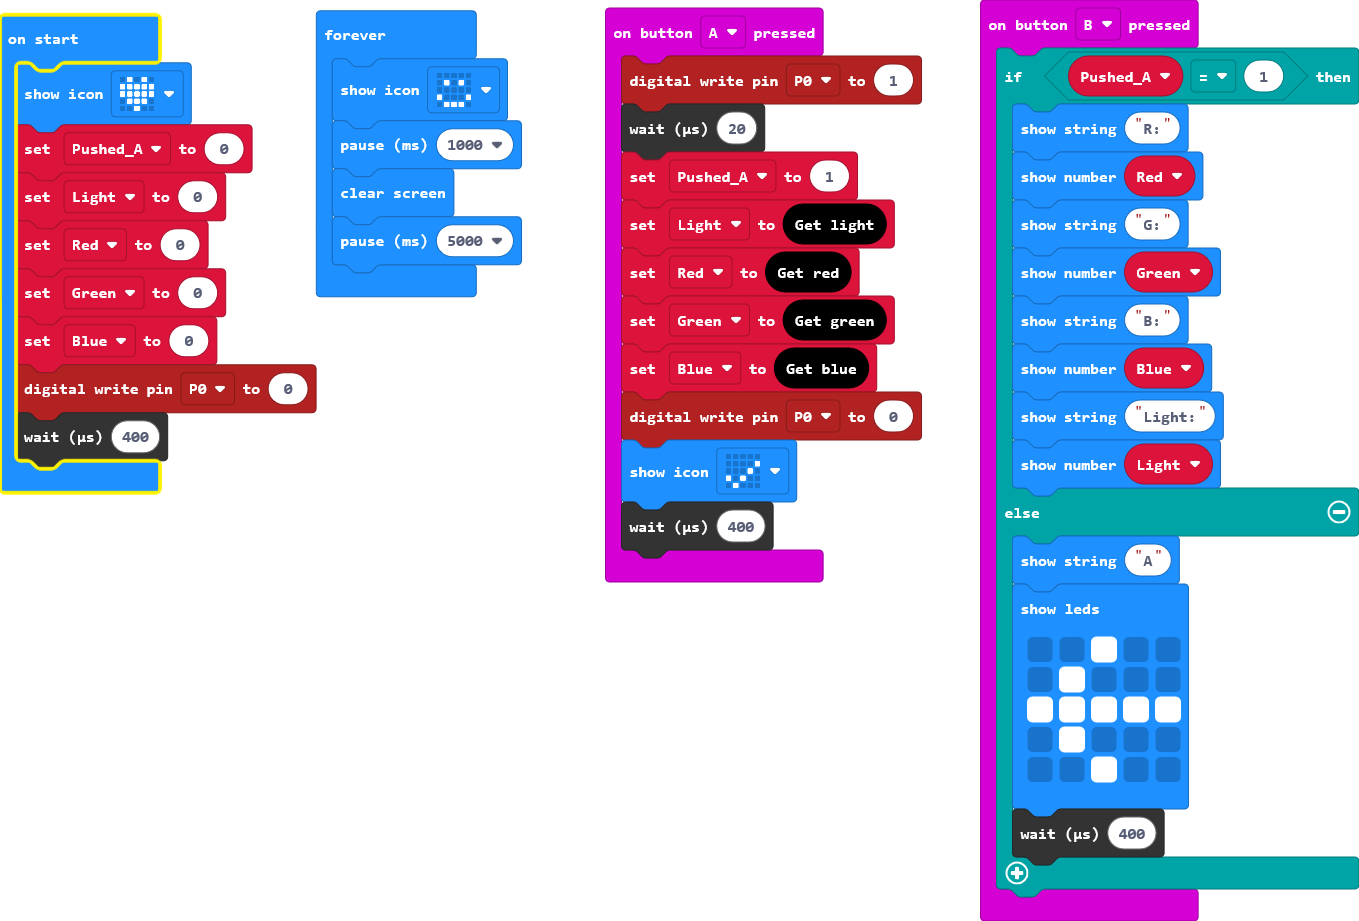
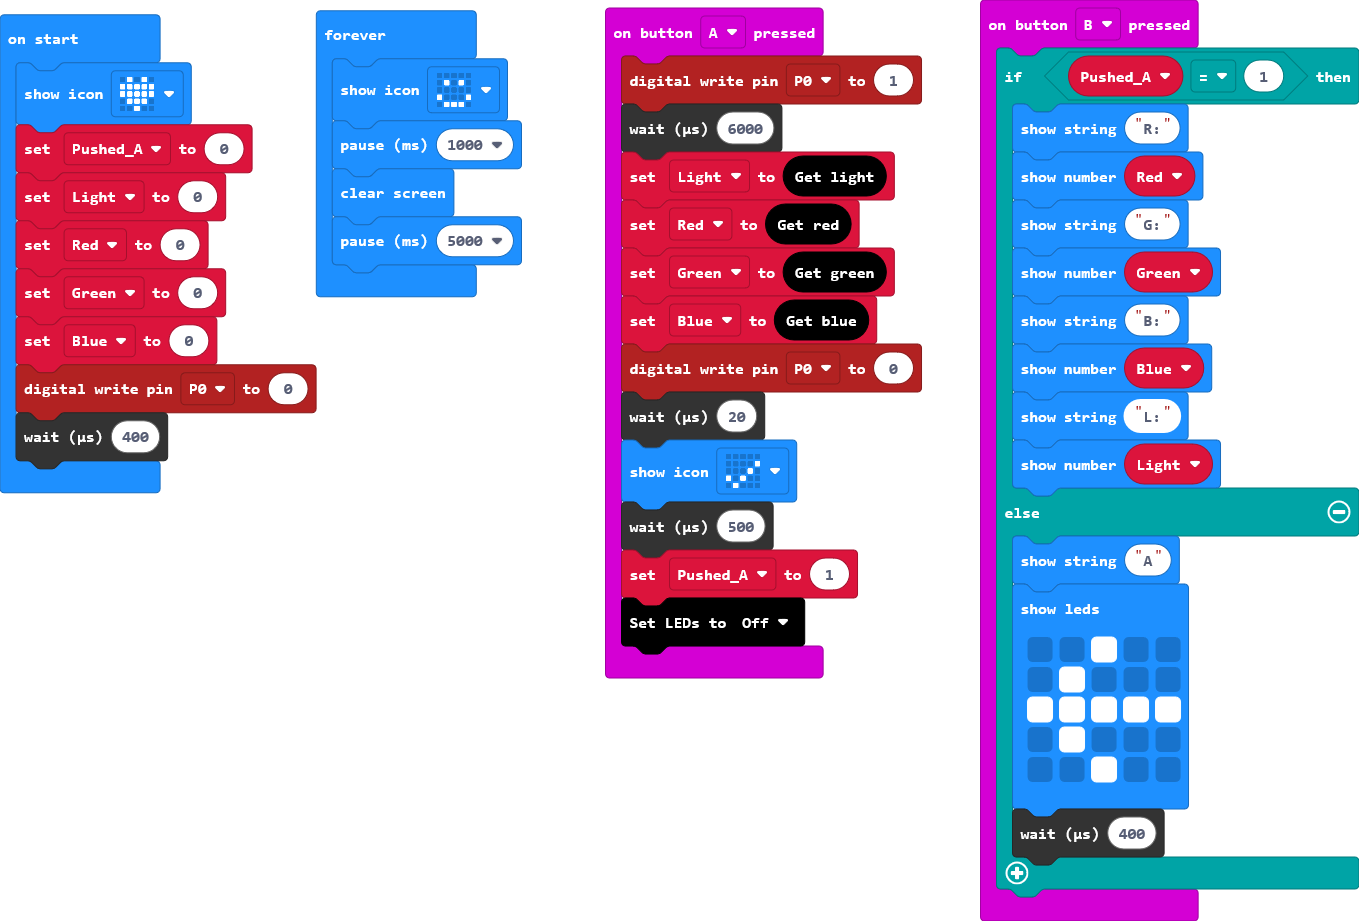
ensure light on for significant time and then read

diff --git a/main.ts b/main.ts
@@ -1,14 +1,16 @@
 input.onButtonPressed(Button.A, function () {
     pins.digitalWritePin(DigitalPin.P0, 1)
-    control.waitMicros(20)
-    Pushed_A = 1
+    control.waitMicros(6000)
     Light = envirobit.getLight()
     Red = envirobit.getRed()
     Green = envirobit.getGreen()
     Blue = envirobit.getBlue()
     pins.digitalWritePin(DigitalPin.P0, 0)
+    control.waitMicros(20)
     basic.showIcon(IconNames.Yes)
-    control.waitMicros(400)
+    control.waitMicros(500)
+    Pushed_A = 1
+    envirobit.setLEDs(envirobit.OnOff.Off)
 })
 input.onButtonPressed(Button.B, function () {
     if (Pushed_A == 1) {
@@ -18,7 +20,7 @@ input.onButtonPressed(Button.B, function () {
         basic.showNumber(Green)
         basic.showString("B:")
         basic.showNumber(Blue)
-        basic.showString("Light:")
+        basic.showString("L:")
         basic.showNumber(Light)
     } else {
         basic.showString("A")
